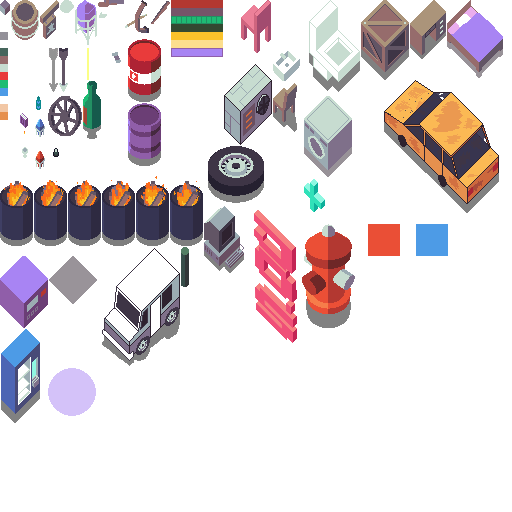
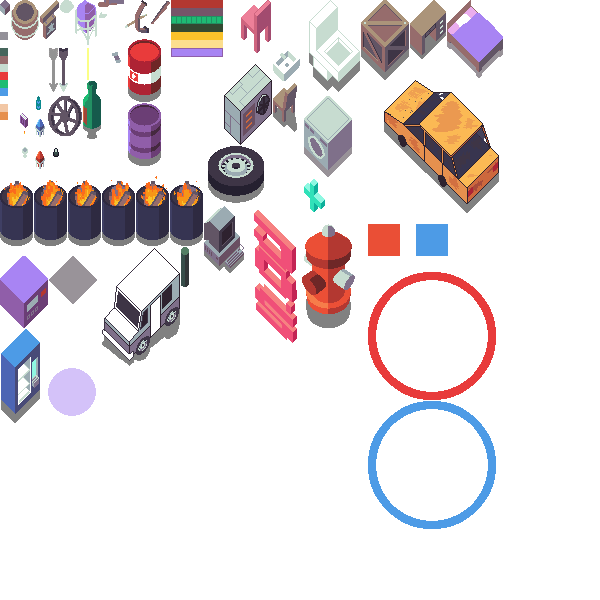
0.8.308

diff --git a/gamestream_flutter/lib/atlases/atlas_items.dart b/gamestream_flutter/lib/atlases/atlas_items.dart
@@ -7,6 +7,8 @@ class AtlasItems {
 
   static List<double> getSrc(int type){
 
+
+
      final value = const <int, List<double>> {
          /// srcX, srcY, srcWidth, srcHeight, anchorX, scale
          ItemType.GameObjects_Flag_Red: [224, 20, 32, 32, 0.5, 1],
@@ -51,6 +53,8 @@ class AtlasItems {
         ItemType.GameObjects_Pipe_Vertical: 181,
         ItemType.GameObjects_Flag_Red: 368,
         ItemType.GameObjects_Flag_Blue: 416,
+        ItemType.GameObjects_Base_Red: 368,
+        ItemType.GameObjects_Base_Blue: 368,
         ItemType.Resource_Credit: 448,
         ItemType.Trinket_Ring_of_Health: 256,
         ItemType.Trinket_Ring_of_Damage: 288,
@@ -153,6 +157,8 @@ class AtlasItems {
         ItemType.GameObjects_Pipe_Vertical: 247,
         ItemType.GameObjects_Flag_Red: 224,
         ItemType.GameObjects_Flag_Blue: 224,
+        ItemType.GameObjects_Base_Red: 272,
+        ItemType.GameObjects_Base_Blue: 401,
         ItemType.Trinket_Ring_of_Health: 32,
         ItemType.Trinket_Ring_of_Damage: 32,
         ItemType.Weapon_Ranged_Shotgun: 243,
@@ -249,6 +255,8 @@ class AtlasItems {
         ItemType.GameObjects_Pipe_Vertical: 8,
         ItemType.GameObjects_Flag_Red: 32,
         ItemType.GameObjects_Flag_Blue: 32,
+        ItemType.GameObjects_Base_Red: 128,
+        ItemType.GameObjects_Base_Blue: 128,
         ItemType.Weapon_Ranged_Sniper_Rifle: 121,
         ItemType.Weapon_Ranged_Flamethrower: 114,
         ItemType.Weapon_Ranged_Bazooka: 117,
@@ -297,6 +305,8 @@ class AtlasItems {
     ItemType.GameObjects_Pipe_Vertical: 40,
     ItemType.GameObjects_Flag_Red: 32,
     ItemType.GameObjects_Flag_Blue: 32,
+    ItemType.GameObjects_Base_Red: 128,
+    ItemType.GameObjects_Base_Blue: 128,
     ItemType.Weapon_Ranged_Sniper_Rifle: 37,
     ItemType.Weapon_Ranged_Bazooka: 52,
     ItemType.Weapon_Ranged_Minigun: 12,

diff --git a/bleed-server/lib/src/games/capture_the_flag/capture_the_flag_game.dart b/bleed-server/lib/src/games/capture_the_flag/capture_the_flag_game.dart
@@ -13,6 +13,9 @@ class CaptureTheFlagGame extends IsometricGame<CaptureTheFlagPlayer> {
   late final IsometricGameObject flagRed;
   late final IsometricGameObject flagBlue;
 
+  late final IsometricGameObject baseRed;
+  late final IsometricGameObject baseBlue;
+
   IsometricCharacter? flagRedCharacter;
   IsometricCharacter? flagBlueCharacter;
 
@@ -27,8 +30,11 @@ class CaptureTheFlagGame extends IsometricGame<CaptureTheFlagPlayer> {
     required super.time,
     required super.environment,
   }) : super(gameType: GameType.Capture_The_Flag) {
-    flagRed = spawnGameObject(x: 200, y: 200, z: 24, type: ItemType.GameObjects_Flag_Red);
-    flagBlue = spawnGameObject(x: 100, y: 100, z: 24, type: ItemType.GameObjects_Flag_Blue);
+    flagRed = spawnGameObject(x: 200, y: 200, z: 25, type: ItemType.GameObjects_Flag_Red);
+    flagBlue = spawnGameObject(x: 100, y: 100, z: 25, type: ItemType.GameObjects_Flag_Blue);
+
+    baseRed = spawnGameObject(x: 400, y: 400, z: 25, type: ItemType.GameObjects_Base_Red)..fixed = true;
+    baseBlue = spawnGameObject(x: 300, y: 300, z: 25, type: ItemType.GameObjects_Base_Blue)..fixed = true;
   }
 
   @override

diff --git a/bleed-common/lib/src/item_type.dart b/bleed-common/lib/src/item_type.dart
@@ -90,6 +90,8 @@ class ItemType {
   static const GameObjects_Pipe_Vertical        = Index_GameObjects + 37;
   static const GameObjects_Flag_Red             = Index_GameObjects + 38;
   static const GameObjects_Flag_Blue            = Index_GameObjects + 39;
+  static const GameObjects_Base_Red             = Index_GameObjects + 40;
+  static const GameObjects_Base_Blue            = Index_GameObjects + 41;
 
   static const Resource_Wood                    = Index_Resources + 01;
   static const Resource_Stone                   = Index_Resources + 02;

diff --git a/bleed-server/lib/common/src/item_type.dart b/bleed-server/lib/common/src/item_type.dart
@@ -90,6 +90,8 @@ class ItemType {
   static const GameObjects_Pipe_Vertical        = Index_GameObjects + 37;
   static const GameObjects_Flag_Red             = Index_GameObjects + 38;
   static const GameObjects_Flag_Blue            = Index_GameObjects + 39;
+  static const GameObjects_Base_Red             = Index_GameObjects + 40;
+  static const GameObjects_Base_Blue            = Index_GameObjects + 41;
 
   static const Resource_Wood                    = Index_Resources + 01;
   static const Resource_Stone                   = Index_Resources + 02;

diff --git a/bleed-common/lib/src/version.dart b/bleed-common/lib/src/version.dart
@@ -1,4 +1,4 @@
-const version = '0.8.307';
+const version = '0.8.308';
 
 
 

diff --git a/bleed-server/lib/common/src/version.dart b/bleed-server/lib/common/src/version.dart
@@ -1,4 +1,4 @@
-const version = '0.8.307';
+const version = '0.8.308';
 
 
 
